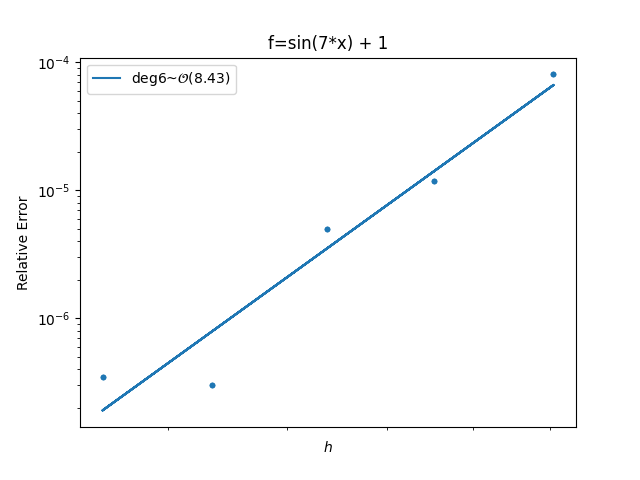
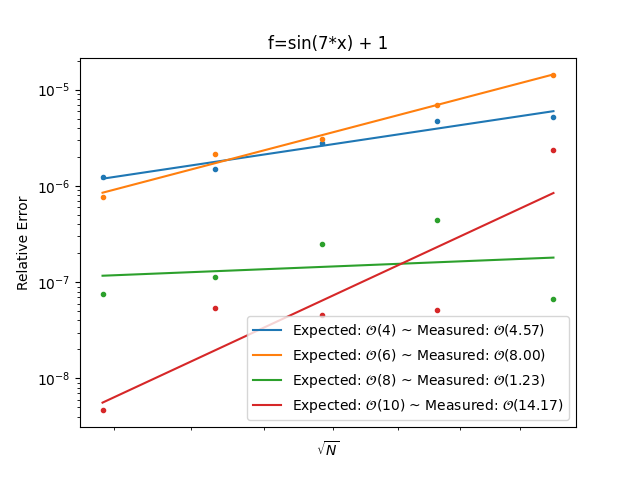
manufactured solution on torus found, but not converging

diff --git a/figures/torus_convergence/torus_nf_convergence.py b/figures/torus_convergence/torus_nf_convergence.py
@@ -6,8 +6,7 @@ from matplotlib.colors import TABLEAU_COLORS
 import matplotlib.pyplot as plt
 from matplotlib.ticker import NullFormatter, ScalarFormatter
 from scipy.stats import linregress
-import sympy as sym
-from sympy.abc import x, y, z
+
 from tqdm import tqdm
 from min_energy_points import LocalSurfaceVoronoi
 from min_energy_points.torus import SpiralTorus
@@ -15,19 +14,21 @@ from min_energy_points.torus import SpiralTorus
 from rbf.rbf import RBF, PHS
 from rbf.surface import TriMesh, SurfaceQuad
 
+from manufactured import (
+    weight_kernel,
+    dist,
+    firing_rate,
+    exact,
+    forcing,
+    cart_to_param,
+)
 
-class TestFunc:
-    def __init__(self, expr):
-        self.expr = expr
-        self.foo = sym.lambdify((x, y, z), expr)
+from odeiter import TimeDomain_Start_Stop_MaxSpacing, RK4
+from odeiter.adams_bashforth import AB5
 
-    def __call__(self, points: np.ndarray[float]) -> np.ndarray[float]:
-        if type(self.expr) in [int, float]:
-            return np.ones(len(points))
-        return self.foo(*points.T)
-
-    def __repr__(self) -> str:
-        return str(self.expr)
+from neural_fields.scattered import (
+    NeuralField,
+)
 
 
 @dataclass
@@ -37,41 +38,38 @@ class Result:
     rbf: RBF
     poly_deg: int
     stencil_size: int
-    expected_order: int
-    test_func: TestFunc
-    approx: float
-    error: float
+    max_err: float
 
 
 if __name__ == "__main__":
-    DATA_FILE = "data/torrus_quad_1.pickle"
+    DATA_FILE = "data/torrus_nf_1.pickle"
     SAVE_DATA = True
 
     R, r = 3, 1
-    exact = 4 * np.pi**2 * R * r
-
-    test_func = TestFunc(1 + sym.sin(7 * x))
-    # test_func = TestFunc(
-    #     1
-    #     + sym.exp(-((x - 2) ** 2) + y**2 + z**2)
-    #     - sym.exp(-((x + 2) ** 2) + y**2 + z**2)
-    # )
 
     Ns = np.logspace(
+        np.log10(1_000),
         np.log10(32_000),
-        np.log10(64_000),
-        5,
+        2,
         dtype=int,
     )
 
-    target_orders = [4, 6, 8, 10]
+    solver = AB5(seed=RK4(), seed_steps_per_step=2)
+    t0, tf = 0, 1
+    time_step_sizes = [1e-4]
+    # Ns = np.logspace(np.log10(1_000), np.log10(5_000), 5, dtype=int)
+    # poly_degs = [1, 2, 3, 4]
+    stencil_size = 24
+    poly_degs = [2]
+    rbf = PHS(3)
 
     results = []
-    for N in (tqdm_N := tqdm(Ns[::-1], position=1, leave=True)):
-        tqdm_N.set_description(f"{N=} - generating surface...")
+    for N in (tqdm_obj := tqdm(Ns[::-1], position=0, leave=True)):
+        tqdm_obj.set_description(f"{N=} - generating surface...")
         torus = SpiralTorus(N, R=R, r=r)
         N = torus.N
         points = torus.points
+        phis, thetas = cart_to_param(points)
         valid_surface = False
         while not valid_surface:
             vor = LocalSurfaceVoronoi(
@@ -82,32 +80,57 @@ if __name__ == "__main__":
             trimesh = TriMesh(points, vor.triangles, normals=vor.normals)
             valid_surface = trimesh.is_valid()
 
-        for target_order in (
-            tqdm_poly_deg := tqdm(target_orders, position=2, leave=False)
-        ):
-            tqdm_poly_deg.set_description(f"{target_order=}")
-            interp_order = target_order + 2
-            rbf = PHS(interp_order)
-            poly_deg = (interp_order + 2) // 2
-            stencil_size = max(
-                12, math.ceil(1.5 * (2 + poly_deg) * (1 + poly_deg) // 2)
-            )
+        for poly_deg in (tqdm_poly_deg := tqdm(poly_degs, position=1, leave=False)):
+            tqdm_poly_deg.set_description(f"{poly_deg=}")
+            # rbf = PHS(max(2, 2 * poly_deg - 2))
+            # stencil_size = max(
+            #     12, math.ceil(1.5 * (2 + poly_deg) * (1 + poly_deg) // 2)
+            # )
 
-            quad = SurfaceQuad(
+            tqdm_obj.set_description(f"{N=}, {poly_deg=} constructing stencil")
+            qf = SurfaceQuad(
                 trimesh=trimesh,
                 rbf=rbf,
                 poly_deg=poly_deg,
                 stencil_size=stencil_size,
                 verbose=True,
                 tqdm_kwargs={
-                    "position": 3,
+                    "position": 2,
                     "leave": False,
                     "desc": "Calculating weights",
                 },
             )
+            tqdm_obj.set_description(f"{N=}, {poly_deg=} constructing conv_mat")
+            nf = NeuralField(
+                qf=qf,
+                firing_rate=firing_rate,
+                weight_kernel=weight_kernel,
+                dist=dist,
+                verbose=True,
+                tqdm_kwargs={"position": 2, "leave": False},
+            )
 
-            approx = quad.weights @ test_func(points)
-            error = abs(approx - exact) / exact
+            def rhs(t, u):
+                return nf.rhs(t, u) + forcing(t, phis, thetas)
+
+            u0 = exact(t0, phis, thetas)
+            for delta_t in tqdm(time_step_sizes, position=2, leave=False):
+                time = TimeDomain_Start_Stop_MaxSpacing(t0, tf, delta_t)
+                max_err = 0
+                tqdm_obj.set_description(
+                    f"{N=}, {delta_t=:.3E}, {poly_deg=} time stepping"
+                )
+                for t, u in (
+                    tqdm_obj_inner := tqdm(
+                        zip(time.array, solver.solution_generator(u0, rhs, time)),
+                        total=len(time.array),
+                        position=2,
+                        leave=False,
+                    )
+                ):
+                    my_exact = exact(t, phis, thetas)
+                    err = np.max(np.abs(u - my_exact) / my_exact)
+                    max_err = max(max_err, err)
 
             result = Result(
                 N=N,
@@ -115,13 +138,10 @@ if __name__ == "__main__":
                 rbf=rbf,
                 poly_deg=poly_deg,
                 stencil_size=stencil_size,
-                expected_order=target_order,
-                approx=approx,
-                error=error,
-                test_func=str(test_func),
+                max_err=max_err,
             )
             results.append(result)
-            tqdm_N.set_description(f"{N=}, {str(rbf)}, {poly_deg=}, {error=:.3E}")
+            tqdm_obj.set_description(f"{N=}, {str(rbf)}, {poly_deg=}, {max_err=:.3E}")
 
     if SAVE_DATA:
         with open(DATA_FILE, "wb") as f:

diff --git a/figures/torus_convergence/manufactured.py b/figures/torus_convergence/manufactured.py
@@ -1,0 +1,133 @@
+import sympy as sym
+
+import numpy as np
+import pyvista as pv
+
+from min_energy_points import LocalSurfaceVoronoi
+from min_energy_points.torus import SpiralTorus
+
+from rbf.surface import TriMesh
+
+
+# R, r = sym.symbols("R r", real=True)
+R, r = 3, 1
+p, th = sym.symbols("\\phi \\theta", real=True)
+
+x = (R + r * sym.cos(th)) * sym.cos(p)
+y = (R + r * sym.cos(th)) * sym.sin(p)
+z = r * sym.sin(th)
+
+J = r * sym.Abs(R + r * sym.cos(th))
+
+p2, th2 = sym.symbols("\\phi_2 \\theta_2", real=True)
+dist_phi = sym.sin((p - p2) / 2)
+dist_theta = sym.sin((th - th2) / 2)
+dist_squared = dist_phi**2 + dist_theta**2
+w = 1 - dist_squared
+
+t = sym.symbols("t", real=True)
+fu = (sym.sin(7 * (p2 + t)) * sym.sin(th2) + sym.Rational(11, 10)) / sym.Rational(
+    23, 10
+)
+
+int_op = sym.integrate(
+    sym.integrate(w * fu * J, (th2, -sym.pi, sym.pi)), (p2, -sym.pi, sym.pi)
+).simplify()
+
+
+z = sym.symbols("z", real=True)
+gamma = 10
+threshold = sym.Rational(2, 10)
+f = 1 / (1 + sym.exp(-(z - threshold) * gamma))
+f_inv = threshold - sym.log(1 / z - 1) / gamma
+
+u = f_inv.subs(z, fu.subs(p2, p).subs(th2, th))
+ut = u.diff(t).simplify()
+
+F = ut + u - int_op
+
+
+exact = sym.lambdify((t, p, th), u)
+forcing = sym.lambdify((t, p, th), F)
+firing_rate = sym.lambdify(z, f)
+kernel = sym.lambdify((p, th, p2, th2), w)
+
+
+def cart_to_param(points):
+    if points.ndim == 1:
+        x, y, z = points
+    else:
+        x, y, z = points.T
+    phis = np.arctan2(y, x)
+    thetas = np.arctan2(z, np.sqrt(x**2 + y**2) - R)
+    return phis, thetas
+
+
+def dist(points, points0):
+    phis, thetas = cart_to_param(points)
+    phi0, theta0 = cart_to_param(points[0])
+
+    return np.sin(.5*(phis - phi0))**2 + np.sin(.5*(thetas - theta0))**2
+
+
+def weight_kernel(r):
+    return 1 - r
+
+
+if __name__ == "__main__":
+    N = 10_000
+    torus = SpiralTorus(N, R=R, r=r)
+    N = torus.N
+    points = torus.points
+    vor = LocalSurfaceVoronoi(
+        torus.points,
+        torus.normals,
+        torus.implicit_surf,
+    )
+    trimesh = TriMesh(points, vor.triangles, normals=vor.normals)
+    triangles = pv.PolyData(points, [(3, *f) for f in trimesh.simplices])
+
+    phis = np.arctan2(points[:, 1], points[:, 0])
+    thetas = np.arctan2(points[:, 2], np.sqrt(points[:, 0]**2 + points[:, 1]**2) - R)
+
+    plotter = pv.Plotter()
+    plotter.add_mesh(
+        triangles,
+        show_edges=False,
+        show_vertices=False,
+        scalars=thetas,
+        show_scalar_bar=True,
+    )
+    plotter.show()
+
+    plotter = pv.Plotter()
+    plotter.add_mesh(
+        triangles,
+        show_edges=False,
+        show_vertices=False,
+        scalars=phis,
+        show_scalar_bar=True,
+    )
+    plotter.show()
+
+    for p, t in [(0, 0), (1.1, 0), (0, 1.1), (-3, 2)]:
+        plotter = pv.Plotter()
+        plotter.add_mesh(
+            triangles,
+            show_edges=False,
+            show_vertices=False,
+            scalars=kernel(phis, thetas, p, t),
+            show_scalar_bar=True,
+        )
+        plotter.show()
+
+    for t in [0, 1, 2, 3]:
+        plotter = pv.Plotter()
+        plotter.add_mesh(
+            triangles,
+            show_edges=False,
+            show_vertices=False,
+            scalars=exact(t, phis, thetas),
+            show_scalar_bar=True,
+        )
+        plotter.show()
